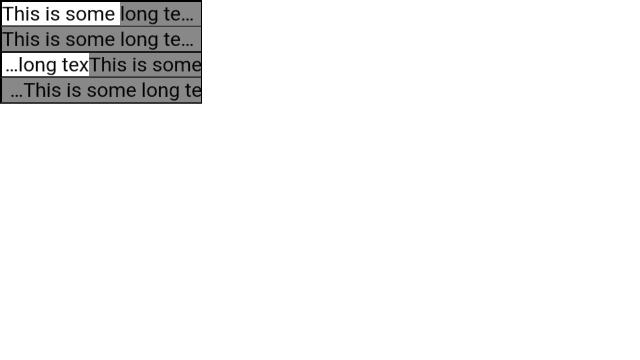
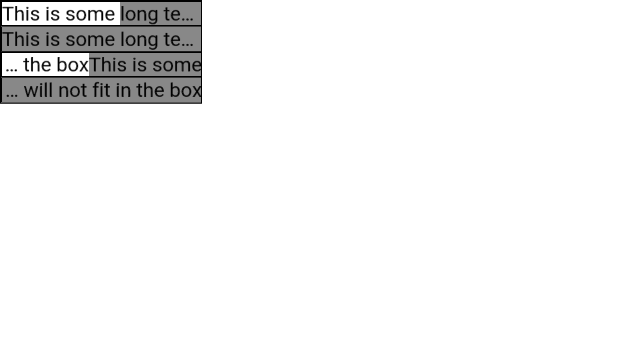
Fix RTL with text-overflow: ellipsis
This fixes the issue where overflow text for dir=rtl truncates
the end of the segment, when it should truncate the start. This
also rebaselines any tests affected by this issue, bringing
Cobalt's expected output in line with Chrome's, and makes sure
that there are no additional regressions.

b/165046947

Former-commit-id: ee0bfff7402d063dcd1cf5723d4255df46dc0efe

Changed region(s): [[0.0, 0.1528, 0.3125, 0.3056]]

diff --git a/cobalt/layout/paragraph.cc b/cobalt/layout/paragraph.cc
@@ -125,17 +125,22 @@ int32 Paragraph::AppendCodePoint(CodePoint code_point) {
   return start_position;
 }
 
-bool Paragraph::FindBreakPosition(const scoped_refptr<dom::FontList>& used_font,
-                                  int32 start_position, int32 end_position,
-                                  LayoutUnit available_width,
-                                  bool should_collapse_trailing_white_space,
-                                  bool allow_overflow,
-                                  Paragraph::BreakPolicy break_policy,
-                                  int32* break_position,
-                                  LayoutUnit* break_width) {
+bool Paragraph::FindBreakPosition(
+    BaseDirection direction, bool should_attempt_to_wrap,
+    const scoped_refptr<dom::FontList>& used_font, int32 start_position,
+    int32 end_position, LayoutUnit available_width,
+    bool should_collapse_trailing_white_space, bool allow_overflow,
+    Paragraph::BreakPolicy break_policy, int32* break_position,
+    LayoutUnit* break_width) {
   DCHECK(is_closed_);
 
-  *break_position = start_position;
+  DCHECK(direction == base_direction_);
+  if (AreInlineAndScriptDirectionsTheSame(direction, start_position) ||
+      should_attempt_to_wrap) {
+    *break_position = start_position;
+  } else {
+    *break_position = end_position;
+  }
   *break_width = LayoutUnit();
 
   // If overflow isn't allowed and there is no available width, then there is
@@ -165,9 +170,10 @@ bool Paragraph::FindBreakPosition(const scoped_refptr<dom::FontList>& used_font,
     // |break_width| will be updated with the position of the last available
     // break position.
     FindIteratorBreakPosition(
-        used_font, line_break_iterator_, start_position, end_position,
-        available_width, should_collapse_trailing_white_space,
-        allow_normal_overflow, break_position, break_width);
+        direction, should_attempt_to_wrap, used_font, line_break_iterator_,
+        start_position, end_position, available_width,
+        should_collapse_trailing_white_space, allow_normal_overflow,
+        break_position, break_width);
   }
 
   // If break word is the break policy, attempt to break unbreakable "words" at
@@ -177,20 +183,39 @@ bool Paragraph::FindBreakPosition(const scoped_refptr<dom::FontList>& used_font,
   if (break_policy == kBreakPolicyBreakWord) {
     // Only continue allowing overflow if the break position has not moved from
     // start, meaning that no normal break positions were found.
-    allow_overflow = allow_overflow && (*break_position == start_position);
+    if (AreInlineAndScriptDirectionsTheSame(direction, start_position) ||
+        should_attempt_to_wrap) {
+      allow_overflow = allow_overflow && (*break_position == start_position);
+    } else {
+      allow_overflow = allow_overflow && (*break_position == end_position);
+    }
 
     // Find the last available break-word break position. |break_position| and
     // |break_width| will be updated with the position of the last available
     // break position. The search begins at the location of the last normal
     // break position that fit within the available width.
-    FindIteratorBreakPosition(
-        used_font, character_break_iterator_, *break_position, end_position,
-        available_width, false, allow_overflow, break_position, break_width);
+    if (AreInlineAndScriptDirectionsTheSame(direction, start_position) ||
+        should_attempt_to_wrap) {
+      FindIteratorBreakPosition(direction, should_attempt_to_wrap, used_font,
+                                character_break_iterator_, *break_position,
+                                end_position, available_width, false,
+                                allow_overflow, break_position, break_width);
+    } else {
+      FindIteratorBreakPosition(direction, should_attempt_to_wrap, used_font,
+                                character_break_iterator_, start_position,
+                                *break_position, available_width, false,
+                                allow_overflow, break_position, break_width);
+    }
   }
 
   // No usable break position was found if the break position has not moved
   // from the start position.
-  return *break_position > start_position;
+  if (AreInlineAndScriptDirectionsTheSame(direction, start_position) ||
+      should_attempt_to_wrap) {
+    return *break_position > start_position;
+  } else {
+    return *break_position < end_position;
+  }
 }
 
 int32 Paragraph::GetNextBreakPosition(int32 position,
@@ -268,6 +293,12 @@ bool Paragraph::IsRTL(int32 position) const {
   return (GetBidiLevel(position) % 2) == 1;
 }
 
+bool Paragraph::AreInlineAndScriptDirectionsTheSame(BaseDirection direction,
+                                                    int32 position) const {
+  return ((direction == kLeftToRightBaseDirection && !IsRTL(position)) ||
+          (direction == kRightToLeftBaseDirection && IsRTL(position)));
+}
+
 bool Paragraph::IsCollapsibleWhiteSpace(int32 position) const {
   // Only check for the space character. Other collapsible white space
   // characters will have already been converted into the space characters and
@@ -338,6 +369,7 @@ icu::BreakIterator* Paragraph::GetBreakIterator(BreakPolicy break_policy) {
 }
 
 void Paragraph::FindIteratorBreakPosition(
+    BaseDirection direction, bool should_attempt_to_wrap,
     const scoped_refptr<dom::FontList>& used_font,
     icu::BreakIterator* const break_iterator, int32 start_position,
     int32 end_position, LayoutUnit available_width,
@@ -347,19 +379,37 @@ void Paragraph::FindIteratorBreakPosition(
   // position. Continue until TryIncludeSegmentWithinAvailableWidth() returns
   // false, indicating that no more segments can be included.
   break_iterator->setText(unicode_text_);
-  for (int32 segment_end = break_iterator->following(start_position);
-       segment_end != icu::BreakIterator::DONE && segment_end < end_position;
-       segment_end = break_iterator->next()) {
-    if (!TryIncludeSegmentWithinAvailableWidth(
-            used_font, *break_position, segment_end, available_width,
-            should_collapse_trailing_white_space, &allow_overflow,
-            break_position, break_width)) {
-      break;
+  if (AreInlineAndScriptDirectionsTheSame(direction, start_position) ||
+      should_attempt_to_wrap) {
+    for (int32 segment_end = break_iterator->following(start_position);
+         segment_end != icu::BreakIterator::DONE && segment_end < end_position;
+         segment_end = break_iterator->next()) {
+      if (!TryIncludeSegmentWithinAvailableWidth(
+              direction, should_attempt_to_wrap, used_font, *break_position,
+              segment_end, available_width,
+              should_collapse_trailing_white_space, &allow_overflow,
+              break_position, break_width)) {
+        break;
+      }
+    }
+  } else {
+    for (int32 segment_begin = break_iterator->preceding(end_position);
+         segment_begin != icu::BreakIterator::DONE &&
+         segment_begin > start_position;
+         segment_begin = break_iterator->previous()) {
+      if (!TryIncludeSegmentWithinAvailableWidth(
+              direction, should_attempt_to_wrap, used_font, segment_begin,
+              *break_position, available_width,
+              should_collapse_trailing_white_space, &allow_overflow,
+              break_position, break_width)) {
+        break;
+      }
     }
   }
 }
 
 bool Paragraph::TryIncludeSegmentWithinAvailableWidth(
+    BaseDirection direction, bool should_attempt_to_wrap,
     const scoped_refptr<dom::FontList>& used_font, int32 segment_start,
     int32 segment_end, LayoutUnit available_width,
     bool should_collapse_trailing_white_space, bool* allow_overflow,
@@ -388,7 +438,12 @@ bool Paragraph::TryIncludeSegmentWithinAvailableWidth(
     return false;
   }
 
-  *break_position = segment_end;
+  if (AreInlineAndScriptDirectionsTheSame(direction, segment_start) ||
+      should_attempt_to_wrap) {
+    *break_position = segment_end;
+  } else {
+    *break_position = segment_start;
+  }
   *break_width += segment_width;
 
   if (*allow_overflow) {

diff --git a/cobalt/layout/text_box.cc b/cobalt/layout/text_box.cc
@@ -42,7 +42,9 @@ TextBox::TextBox(const scoped_refptr<cssom::CSSComputedStyleDeclaration>&
       paragraph_(paragraph),
       text_start_position_(text_start_position),
       text_end_position_(text_end_position),
+      truncated_text_start_position_(text_start_position),
       truncated_text_end_position_(text_end_position),
+      previous_truncated_text_start_position_(text_start_position),
       previous_truncated_text_end_position_(text_end_position),
       truncated_text_offset_from_left_(0),
       used_font_(used_style_provider->GetUsedFontList(
@@ -237,12 +239,16 @@ bool TextBox::DoesFulfillEllipsisPlacementRequirement() const {
 }
 
 void TextBox::DoPreEllipsisPlacementProcessing() {
+  previous_truncated_text_start_position_ = truncated_text_start_position_;
   previous_truncated_text_end_position_ = truncated_text_end_position_;
+  truncated_text_start_position_ = text_start_position_;
   truncated_text_end_position_ = text_end_position_;
 }
 
 void TextBox::DoPostEllipsisPlacementProcessing() {
-  if (previous_truncated_text_end_position_ != truncated_text_end_position_) {
+  if (previous_truncated_text_start_position_ !=
+          truncated_text_start_position_ ||
+      previous_truncated_text_end_position_ != truncated_text_end_position_) {
     InvalidateRenderTreeNodesOfBoxAndAncestors();
   }
 }
@@ -397,7 +403,7 @@ void TextBox::RenderAndAnimateContent(
     // color is animated, in which case it could become non-transparent.
     if (used_color.a() > 0.0f || is_color_animated ||
         text_shadow != cssom::KeywordValue::GetNone()) {
-      int32 text_start_position = GetNonCollapsedTextStartPosition();
+      int32 text_start_position = GetVisibleTextStartPosition();
       int32 text_length = GetVisibleTextLength();
 
       scoped_refptr<render_tree::GlyphBuffer> glyph_buffer =
@@ -481,7 +487,12 @@ void TextBox::DoPlaceEllipsisOrProcessPlacedEllipsis(
   // If the ellipsis has already been placed, then the text is fully truncated
   // by the ellipsis.
   if (*is_placed) {
-    truncated_text_end_position_ = text_start_position_;
+    if (paragraph_->AreInlineAndScriptDirectionsTheSame(base_direction,
+                                                        text_start_position_)) {
+      truncated_text_end_position_ = text_start_position_;
+    } else {
+      truncated_text_start_position_ = text_end_position_;
+    }
     return;
   }
 
@@ -510,8 +521,8 @@ void TextBox::DoPlaceEllipsisOrProcessPlacedEllipsis(
   // text box. Otherwise, it can only appear after the first character
   // (https://www.w3.org/TR/css3-ui/#propdef-text-overflow).
   if (paragraph_->FindBreakPosition(
-          used_font_, start_position, end_position, desired_content_offset,
-          false, !(*is_placement_requirement_met),
+          base_direction, false, used_font_, start_position, end_position,
+          desired_content_offset, false, !(*is_placement_requirement_met),
           Paragraph::kBreakPolicyBreakWord, &found_position, &found_offset)) {
     // A usable break position was found. Calculate the placed offset using the
     // the break position's distance from the content box's start edge. In the
@@ -525,7 +536,12 @@ void TextBox::DoPlaceEllipsisOrProcessPlacedEllipsis(
     } else {
       *placed_offset = content_box_start_offset + found_offset;
     }
-    truncated_text_end_position_ = found_position;
+    if (paragraph_->AreInlineAndScriptDirectionsTheSame(base_direction,
+                                                        start_position)) {
+      truncated_text_end_position_ = found_position;
+    } else {
+      truncated_text_start_position_ = found_position;
+    }
     // An acceptable break position was not found. If the placement requirement
     // was already met prior to this box, then the ellipsis doesn't require a
     // character from this box to appear prior to its position, so simply place
@@ -533,7 +549,12 @@ void TextBox::DoPlaceEllipsisOrProcessPlacedEllipsis(
   } else if (is_placement_requirement_met) {
     *placed_offset =
         GetMarginBoxStartEdgeOffsetFromContainingBlock(base_direction);
-    truncated_text_end_position_ = text_start_position_;
+    if (paragraph_->AreInlineAndScriptDirectionsTheSame(base_direction,
+                                                        start_position)) {
+      truncated_text_end_position_ = text_start_position_;
+    } else {
+      truncated_text_start_position_ = text_end_position_;
+    }
     // The placement requirement has not already been met. Given that an
     // acceptable break position was not found within the text, the ellipsis can
     // only be placed at the end edge of the box.
@@ -603,7 +624,8 @@ int32 TextBox::GetWrapPosition(WrapAtPolicy wrap_at_policy,
       // fits within the available width. Overflow is never allowed.
       LayoutUnit wrap_width;
       if (!paragraph_->FindBreakPosition(
-              used_font_, start_position, text_end_position_, available_width,
+              paragraph_->base_direction(), true, used_font_, start_position,
+              text_end_position_, available_width,
               should_collapse_trailing_white_space, false, break_policy,
               &wrap_position, &wrap_width)) {
         // If no break position is found, but the line existence is already
@@ -720,19 +742,24 @@ std::string TextBox::GetNonCollapsibleText() const {
                                            Paragraph::kVisualTextOrder);
 }
 
+int32 TextBox::GetVisibleTextStartPosition() const {
+  return std::max(GetNonCollapsedTextStartPosition(),
+                  truncated_text_start_position_);
+}
+
 int32 TextBox::GetVisibleTextEndPosition() const {
   return std::min(GetNonCollapsedTextEndPosition(),
                   truncated_text_end_position_);
 }
 
 int32 TextBox::GetVisibleTextLength() const {
-  return GetVisibleTextEndPosition() - GetNonCollapsedTextStartPosition();
+  return GetVisibleTextEndPosition() - GetVisibleTextStartPosition();
 }
 
 bool TextBox::HasVisibleText() const { return GetVisibleTextLength() > 0; }
 
 std::string TextBox::GetVisibleText() const {
-  return paragraph_->RetrieveUtf8SubString(GetNonCollapsedTextStartPosition(),
+  return paragraph_->RetrieveUtf8SubString(GetVisibleTextStartPosition(),
                                            GetVisibleTextEndPosition(),
                                            Paragraph::kVisualTextOrder);
 }

diff --git a/cobalt/layout/paragraph.h b/cobalt/layout/paragraph.h
@@ -111,7 +111,8 @@ class Paragraph : public base::RefCounted<Paragraph> {
   // substring coming before |break_position|.
   //
   // Returns false if no usable break position was found.
-  bool FindBreakPosition(const scoped_refptr<dom::FontList>& used_font,
+  bool FindBreakPosition(BaseDirection direction, bool should_attempt_to_wrap,
+                         const scoped_refptr<dom::FontList>& used_font,
                          int32 start_position, int32 end_position,
                          LayoutUnit available_width,
                          bool should_collapse_trailing_white_space,
@@ -136,6 +137,8 @@ class Paragraph : public base::RefCounted<Paragraph> {
 
   int GetBidiLevel(int32 position) const;
   bool IsRTL(int32 position) const;
+  bool AreInlineAndScriptDirectionsTheSame(BaseDirection direction,
+                                           int32 position) const;
   bool IsCollapsibleWhiteSpace(int32 position) const;
   bool GetNextRunPosition(int32 position, int32* next_run_position) const;
   int32 GetTextEndPosition() const;
@@ -174,7 +177,9 @@ class Paragraph : public base::RefCounted<Paragraph> {
   // that first overflowing segment will be included. The parameter
   // |break_width| indicates the width of the portion of the substring coming
   // before |break_position|.
-  void FindIteratorBreakPosition(const scoped_refptr<dom::FontList>& used_font,
+  void FindIteratorBreakPosition(BaseDirection direction,
+                                 bool should_attempt_to_wrap,
+                                 const scoped_refptr<dom::FontList>& used_font,
                                  icu::BreakIterator* const break_iterator,
                                  int32 start_position, int32 end_position,
                                  LayoutUnit available_width,
@@ -197,6 +202,7 @@ class Paragraph : public base::RefCounted<Paragraph> {
   // of false does not guarantee that the segment was not included, but simply
   // that no additional segments can be included.
   bool TryIncludeSegmentWithinAvailableWidth(
+      BaseDirection direction, bool should_attempt_to_wrap,
       const scoped_refptr<dom::FontList>& used_font, int32 start_position,
       int32 end_position, LayoutUnit available_width,
       bool should_collapse_trailing_white_space, bool* allow_overflow,

diff --git a/cobalt/layout/text_box.h b/cobalt/layout/text_box.h
@@ -133,6 +133,7 @@ class TextBox : public Box {
   int32 GetNonCollapsibleTextLength() const;
   std::string GetNonCollapsibleText() const;
 
+  int32 GetVisibleTextStartPosition() const;
   int32 GetVisibleTextEndPosition() const;
   int32 GetVisibleTextLength() const;
   bool HasVisibleText() const;
@@ -145,7 +146,7 @@ class TextBox : public Box {
   const scoped_refptr<Paragraph> paragraph_;
   // The position within the paragraph where the text contained in this box
   // begins.
-  const int32 text_start_position_;
+  int32 text_start_position_;
   // The position within the paragraph where the text contained in this box
   // ends.
   int32 text_end_position_;
@@ -154,11 +155,13 @@ class TextBox : public Box {
   // "Implementations must hide characters and atomic inline-level elements at
   // the applicable edge(s) of the line as necessary to fit the ellipsis."
   //   https://www.w3.org/TR/css3-ui/#propdef-text-overflow
+  int32 truncated_text_start_position_;
   int32 truncated_text_end_position_;
-  // Tracking of the previous value of |truncated_text_end_position_|, which
+  // Tracking of the previous value of the truncated text position, which
   // allows for determination of whether or not the value changed during
   // ellipsis placement. When this occurs, the cached render tree nodes of this
   // box and its ancestors are invalidated.
+  int32 previous_truncated_text_start_position_;
   int32 previous_truncated_text_end_position_;
   // The horizontal offset to apply to rendered text as a result of an ellipsis
   // truncating the text. This value can be non-zero when the text box is in a
